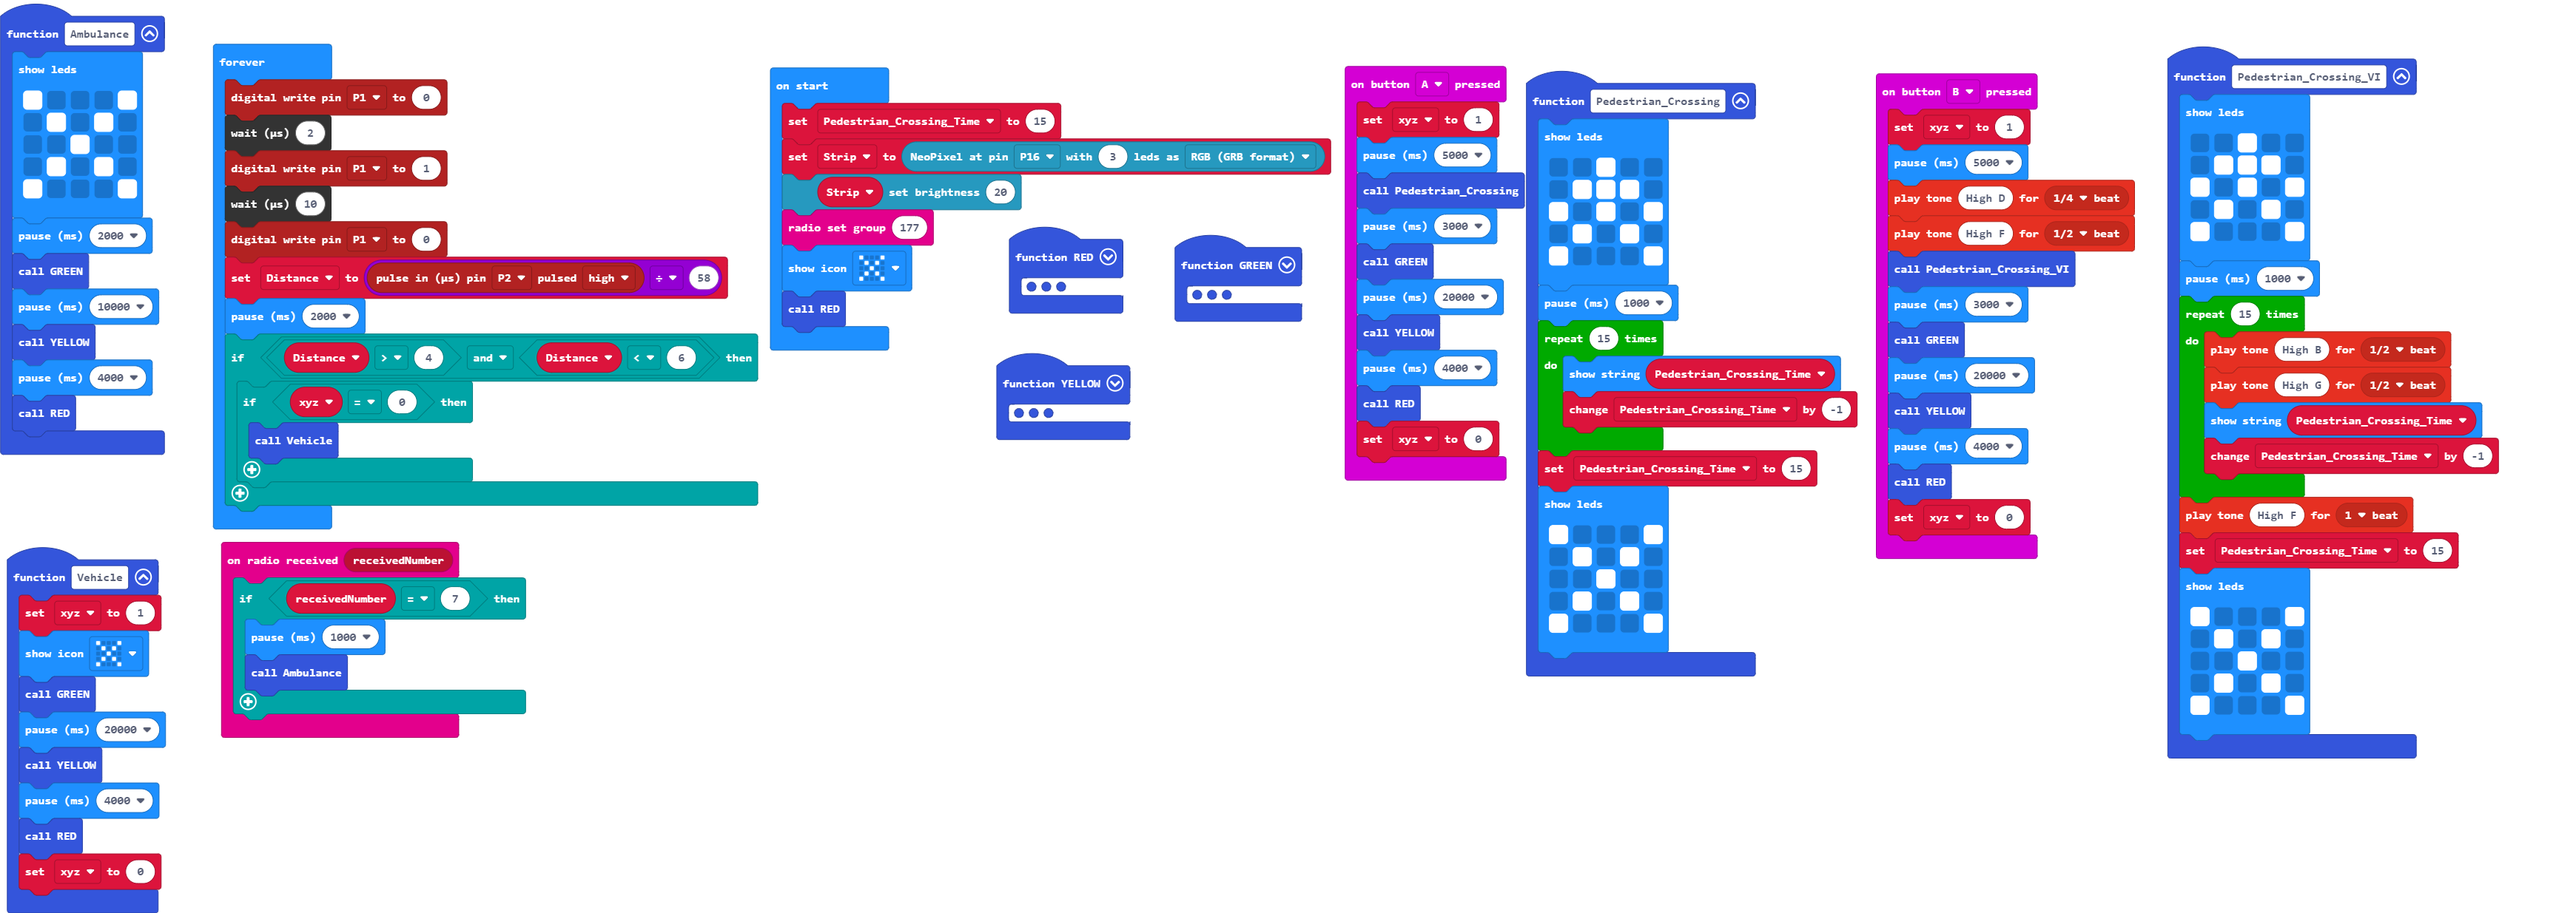
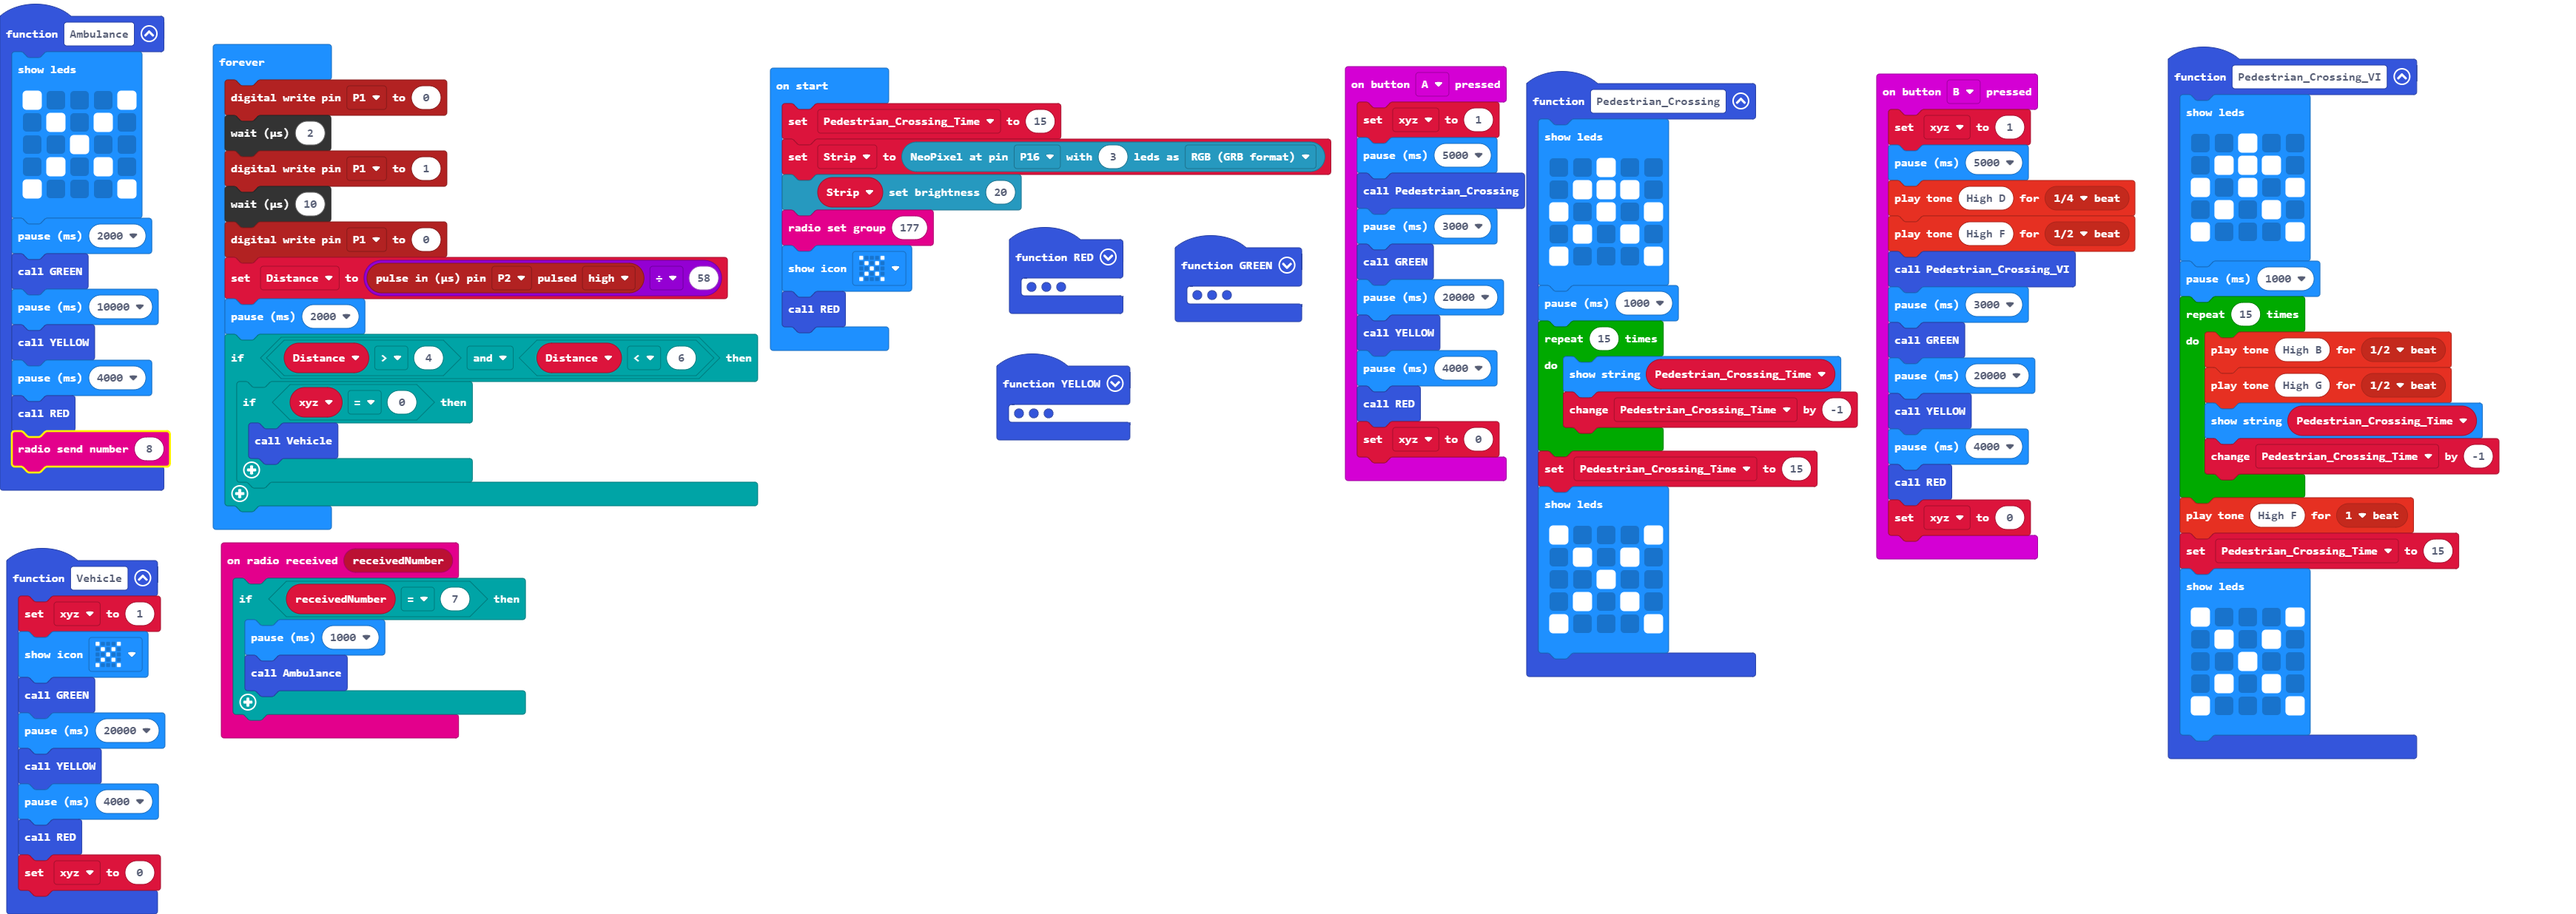
Update main.blocks, main.ts

diff --git a/main.ts b/main.ts
@@ -60,6 +60,7 @@ function Ambulance () {
     YELLOW()
     basic.pause(4000)
     RED()
+    radio.sendNumber(8)
 }
 function Vehicle () {
     xyz = 1
